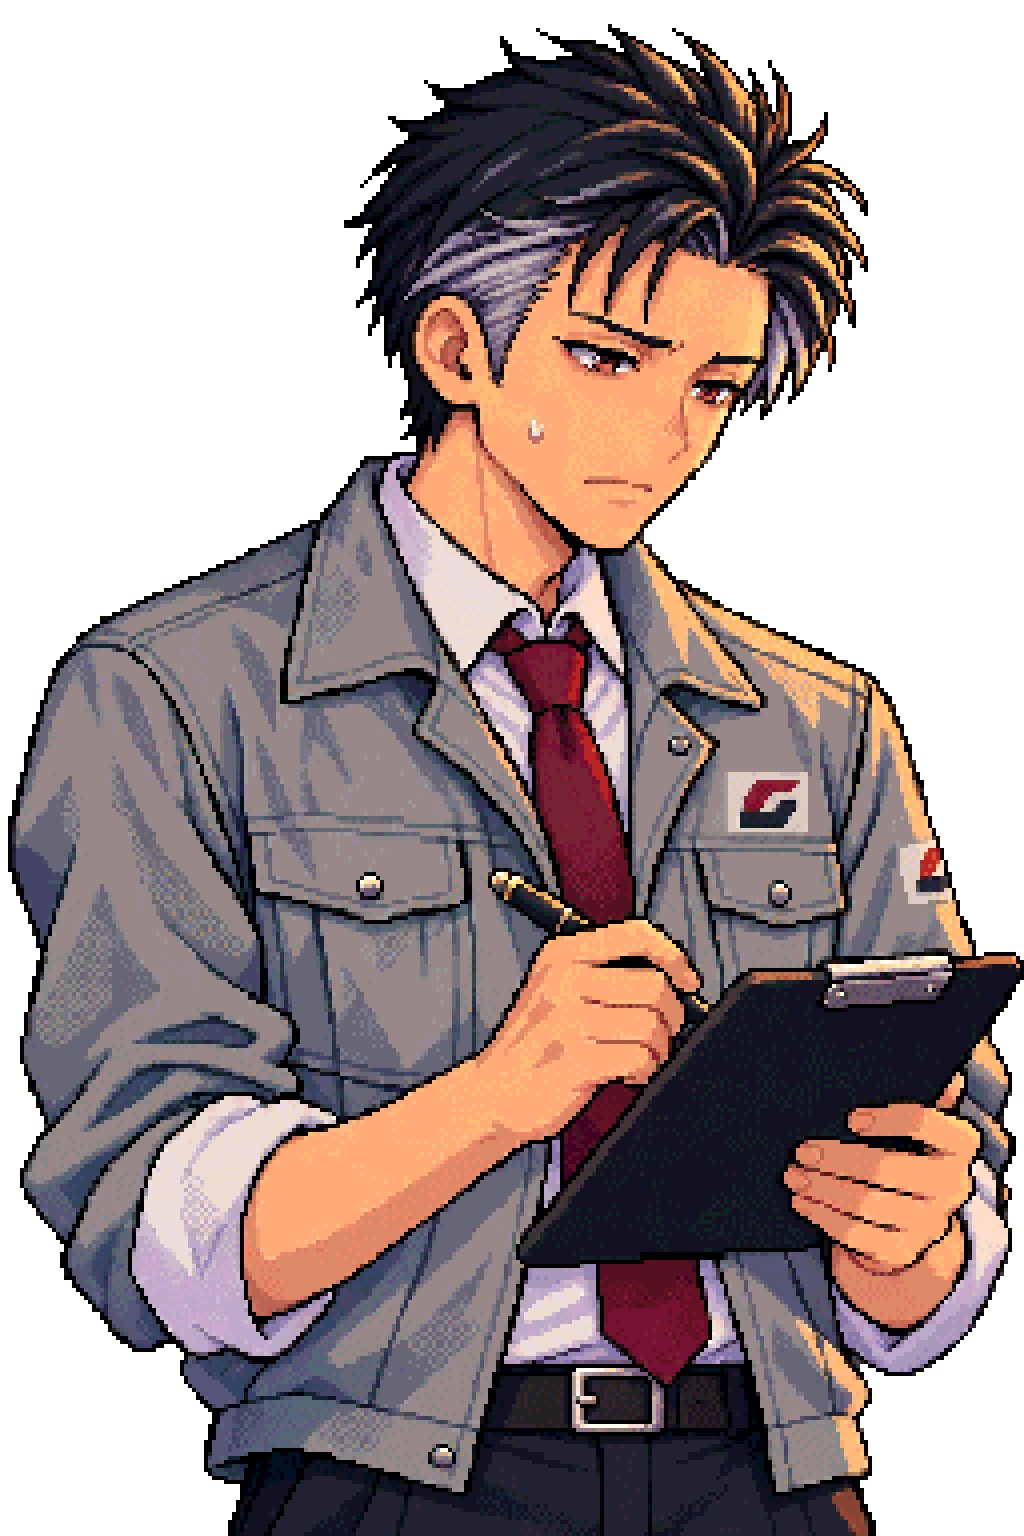
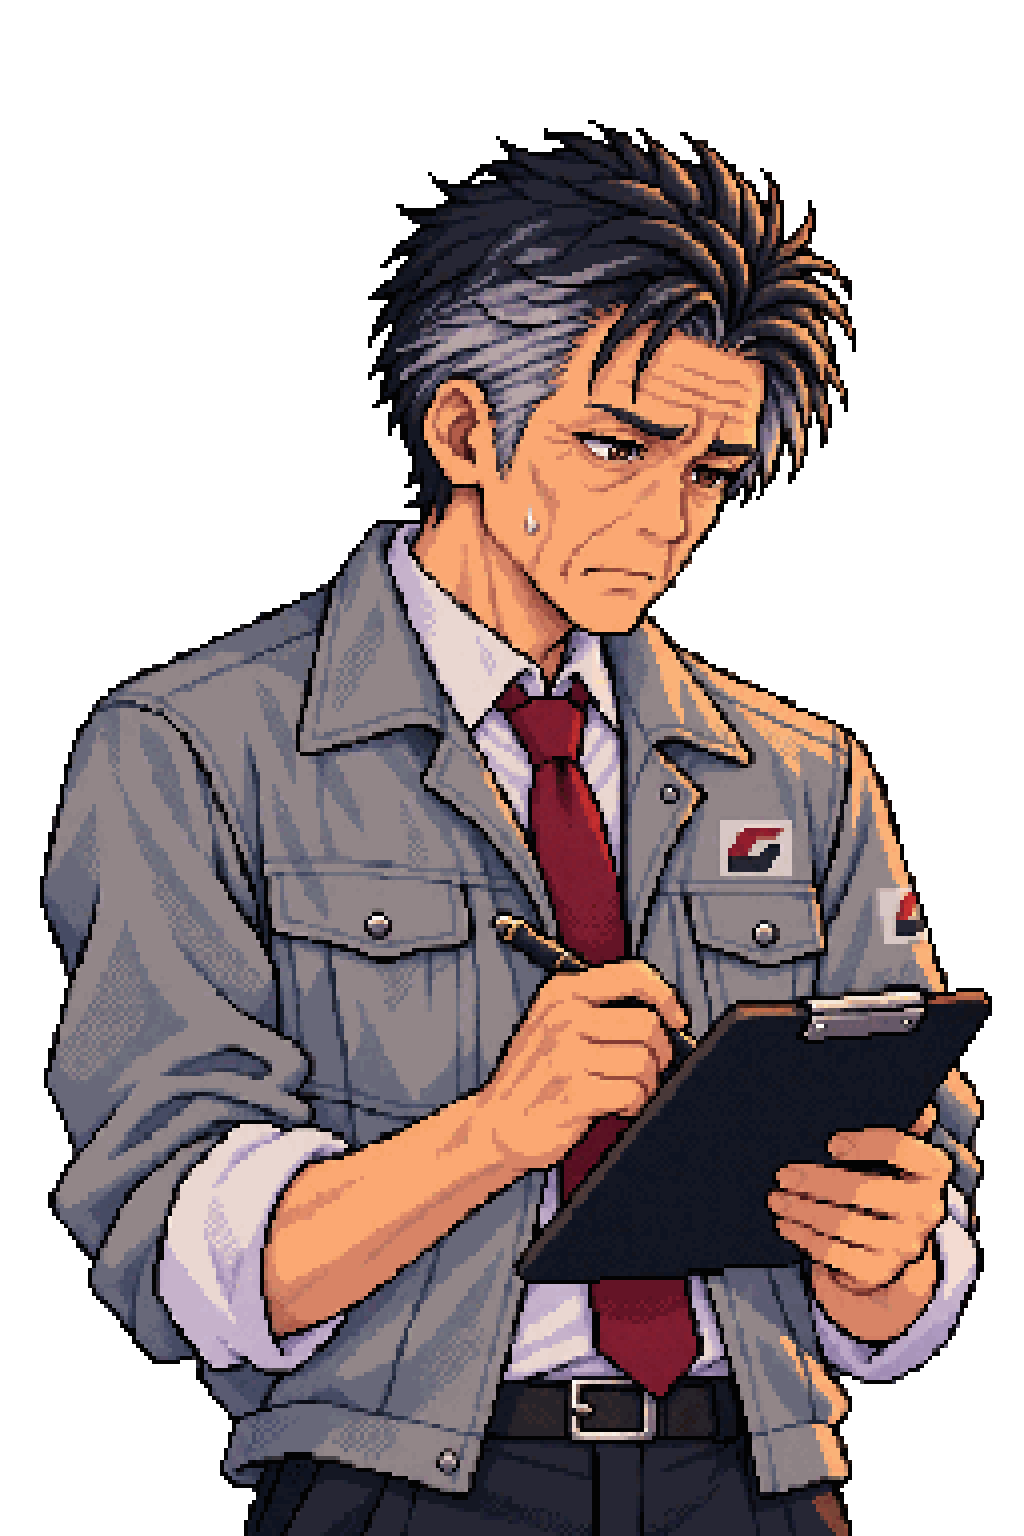
assets: 다시 받기 18장 전부 넣음 — 그림 284/284 완성
- 5A 6Y5 6Y6 AF R2 R7 S3 t_asg_1 t_asg_3: 없던 사람·글자 제거됨
- 오카모토(68세)·무라세(50세) 나이, 타나베 경찰 표시 제거, towa_serious 초록, rei_normal 캔 커피 자세

Claude-Session: https://claude.ai/code/session_01Eau5AueyeKfEKTxNRbKjxr

diff --git a/docs/GPT_QUEUE.md b/docs/GPT_QUEUE.md
@@ -6,36 +6,3 @@
 - **새 그림은 한 장당 한 번만** 만들고 다음 줄로. 빠진 게 있어도 올리고 PR 설명에 적는다. 맨 아래 「다시 받기」는 새 그림을 다 올린 뒤에 한다(이유를 고치는 게 목적, 최대 2번).
 - 「확인」 칸: 그 장에서 틀리기 쉬운 것. 그리기 전에 읽고, 다 그린 뒤 하나씩 맞는지 본다.
 - 묶음(장·종류)마다 PR 하나, 브랜치는 `assets/<첫 id>-<월일시분>`. 올리면 바로 다음 줄로.
-
-## 5장
-
-| # | id | 파일 | 할 일 | 첨부 | 꼭 보여야 할 것 | 확인 |
-|---|---|---|---|---|---|---|
-| 1 | `5A` | cuts/5A.png | 다시: 손만이 아니라 다른 여자 전신이 나옴 → 메모 쓰는 손과 소매만, 사람 없음 | — | 깜깜한 창, 스탠드 불빛, 메모 쓰는 손, 그을린 경찰 배지(포인트 색) | 시계·손목시계 없음 |
-| 2 | `6Y6` | cuts/6Y6.png | 다시: 죽은 시오리·렌 등 사람이 화재 앞에 서 있음 → 사람 없음, 한쪽 눈을 가린 손만 | — | 한쪽 눈을 가린 손, 위층을 모두 삼킨 불길(포인트 색), 경광등 불빛 | 1인칭: 보는 사람은 손·발만 · 밤 |
-| 3 | `6Y5` | cuts/6Y5.png | 다시: 말풍선 대신 파란 풍선이 나옴 → 위층 계단에서 내려오는 빈 말풍선 모양 | — | 빈손으로 다시 연기 속으로, 입구 서가까지 번진 불, 위층의 목소리(포인트 색) | 1인칭: 보는 사람은 손·발만 |
-
-## 종장
-
-| # | id | 파일 | 할 일 | 첨부 | 꼭 보여야 할 것 | 확인 |
-|---|---|---|---|---|---|---|
-| 4 | `R2` | cuts/R2.png | 다시: 금발 여자와 일본어 글자가 나옴 → 1인칭 손과 응모 서류만, 글자 없이 | — | 응모 서류의 칸을 긋는 손(포인트 색) | 1인칭: 보는 사람은 손·발만 |
-| 5 | `R7` | cuts/R7.png | 다시: 레이를 놓는 손이 금발 소녀 → 시오리(검은 장발, 책갈피 핀, 남색 세일러복) 소매와 손 | portraits/shiori_normal.png | 흐린 시야, 부축하던 손이 떨어지고 순경의 등이 받아 올림(포인트 색) | 1인칭: 보는 사람은 손·발만 · 시계·손목시계 없음 |
-| 6 | `S3` | cuts/S3.png | 다시: 금발 여자가 앉아 있음 → 사람 없는 열람석, 원고 마지막 장이 백지 | — | 밀려난 의자, 백지인 마지막 장(포인트 색) | 시계·손목시계 없음 · 밤 |
-| 7 | `t_asg_1` | cuts/t_asg_1.png | 다시: 군복 차림 여자가 나옴 → 사람 없이 책상 위 보고서만 | — | 말끔한 소방 보고서 |  |
-| 8 | `t_asg_3` | cuts/t_asg_3.png | 다시: 손님과 바리스타가 나옴 → 사람 없는 카운터, 빈 벽 | — | 아무것도 걸리지 않은 벽 | 밤 |
-| 9 | `AF` | cuts/AF.png | 다시: 풀컬러에 가족 셋이 나옴 → 회색+포인트 1색, 사람 없이 냉장고의 크레용 그림만 | — | 냉장고의 크레용 그림(포인트 색), 창밖 크레인과 불빛 |  |
-
-## 다시 받기 (새 그림을 다 뽑은 뒤 마지막에)
-
-| # | id | 파일 | 할 일 | 첨부 | 꼭 보여야 할 것 | 확인 |
-|---|---|---|---|---|---|---|
-| 10 | `okamoto_normal` | portraits/okamoto_normal.png | 다시: (지난번 거의 같은 그림이 왔음 — 기존 그림을 고쳐 그리지 말고 새로) 30대처럼 젊고 가슴이 보임 → 68세 할머니(주름, 작은 체구, 단정한 옷) | portraits/okamoto_normal.png |  | 노인은 주름진 노인 얼굴 |
-| 11 | `okamoto_angry` | portraits/okamoto_angry.png | 다시: (지난번 거의 같은 그림이 왔음 — 기존 그림을 고쳐 그리지 말고 새로) 30대처럼 젊고 가슴이 보임 → 68세 할머니(주름, 작은 체구, 단정한 옷) | portraits/okamoto_angry.png |  | 노인은 주름진 노인 얼굴 |
-| 12 | `murase_normal` | portraits/murase_normal.png | 다시: (지난번 거의 같은 그림이 왔음 — 기존 그림을 고쳐 그리지 말고 새로) 20대처럼 보임 → 50세(이마 주름, 관자놀이 흰머리) | portraits/murase_normal.png |  |  |
-| 13 | `murase_smile` | portraits/murase_smile.png | 다시: (지난번 거의 같은 그림이 왔음 — 기존 그림을 고쳐 그리지 말고 새로) 20대처럼 보임 → 50세(이마 주름, 관자놀이 흰머리) | portraits/murase_smile.png |  |  |
-| 14 | `murase_cornered` | portraits/murase_cornered.png | 다시: (지난번 거의 같은 그림이 왔음 — 기존 그림을 고쳐 그리지 말고 새로) 20대처럼 보임 → 50세(이마 주름, 관자놀이 흰머리) | portraits/murase_cornered.png |  |  |
-| 15 | `tanabe_normal` | portraits/tanabe_normal.png | 다시: (지난번 거의 같은 그림이 왔음 — 기존 그림을 고쳐 그리지 말고 새로) 경찰 순경 복장(모자 휘장·호루라기) → 민간 경비업체 회청색 제복, 경찰 표시 없음 | portraits/tanabe_normal.png |  |  |
-| 16 | `tanabe_confused` | portraits/tanabe_confused.png | 다시: (지난번 거의 같은 그림이 왔음 — 기존 그림을 고쳐 그리지 말고 새로) 경찰 순경 복장 → 민간 경비업체 제복 | portraits/tanabe_normal.png |  |  |
-| 17 | `towa_serious` | portraits/towa_serious.png | 다시: (지난번 거의 같은 그림이 왔음 — 기존 그림을 고쳐 그리지 말고 새로) 고양이 귀·헤드폰·모니터 테두리가 빨강 → towa_normal과 같은 초록, 표정만 진지하게 | portraits/towa_normal.png |  |  |
-| 18 | `rei_normal` | portraits/rei_normal.png | 다시: (지난번엔 가리키는 자세 — serious와 다르게) serious와 같은 손가락질 자세 → 졸린 반쯤 감은 눈, 캔 커피를 든 무심한 자세 | portraits/rei_serious.png |  |  |
